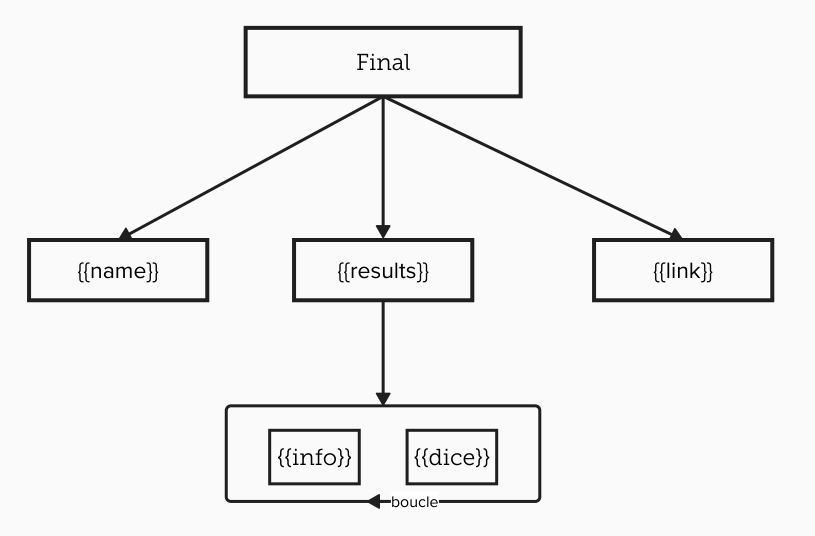
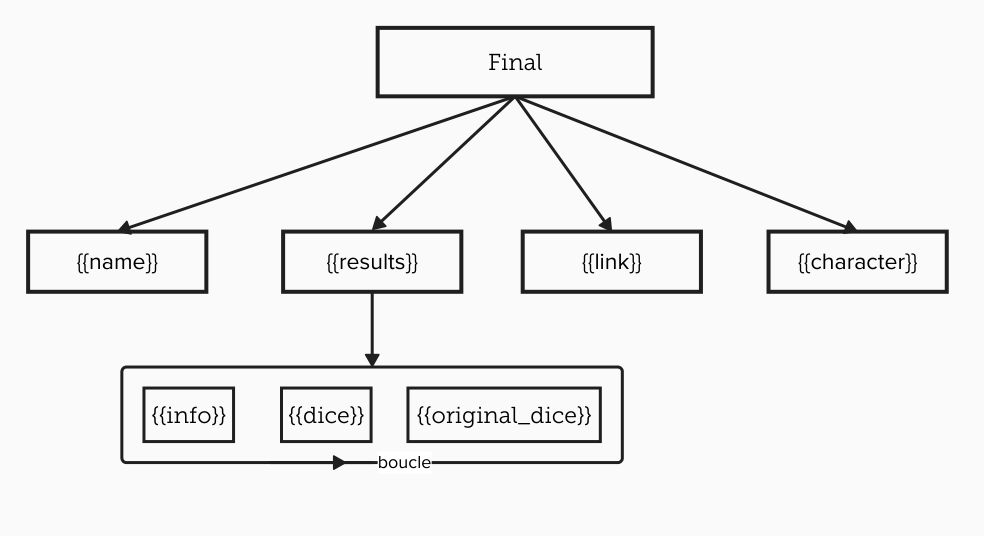
docs: update context_menu.md to enhance format options and clarify variable usage

diff --git a/config/context_menu.md b/config/context_menu.md
@@ -22,18 +22,22 @@ Le format du serveur a la priorité sur le format de l'utilisateur.
 ## Format
 
 :::usage
-**`/config créer_lien format [final] [results] [dé] [info] [nom] [jointure_résultats]`**
+**`/config créer_lien format [final] (results) (dé) (info) (nom) (dé_original) (personnage) (jointure_résultats)`**
 - `dé` : Le résultat du dé en lui-même, généralement `[RES](SIGN)(COMPARAISON)`, par exemple `[29]>=10`.
 - `info` : Le texte d'information qui est le texte de critiques (dont customisés), d'échec ou de réussite.
 - `nom` : Le nom de la statistique ou de la macro, si une est trouvée.
 - `jointure_résultats` : Le texte à utiliser pour joindre plusieurs résultats ensemble.
 - `results` : Une liste qui contient la combinaison de `dé` et `info`, joint par la variable `jointure_résultats`.
 - `final` : Le format final qui combine les autres variables pour créer le lien.
+- `dé_original` : Le dé original lancé, par exemple `1d100`.
+- `personnage` : Le nom du personnage ayant lancé le dé.
 :::
 
 :::warning
 Discord ne permet pas de rajouter des espaces finaux (ou au début) dans les options. Si vous souhaitez ajouter un espace à la fin ou au début d'une des variables, utilisez `\s` pour représenter un espace.
 :::
+
+Lorsque les variables sont laissées vides, les valeurs par défaut sont utilisées.
 
 ### Variables
 
@@ -43,22 +47,23 @@ Pour simplifier la création du format, vous pouvez utiliser les variables suiva
 - `{{name}}` : Nom de la statistique (exemple : `Force`) ou de la macro
 - `{{results}}` : Liste pouvant combiner plusieurs `{{dice}}` et `{{info}}`
 - `{{link}}` : Lien vers le message contenant le résultat du dé.
+- `{{original_dice}}` : Le dé original lancé (exemple : `1d100`)
+- `{{character}}` : Le nom du personnage ayant lancé le dé
 
-Il existe certaines personnalisations possibles pour `name` et `info` : 
-- `{{name:short}}` : Utilise les initiales de la macro/statistique, si le nom est composée de plusieurs mots (exemple : `CA` pour `Classe d'Armure`)
-- `{{name:long}}` : Utilise le nom complet de la macro/statistique (même chose que `{{name}}`)
+Il existe certaines personnalisations possibles pour `name`, `info` et `character` en ajoutant `:short` ou `:long` après le nom de la variable :
+- `:short` : permet d'obtenir les initiales de la variable uniquement si cette dernière fait au moins deux mots. Par exemple, pour `{{name}}`, si le nom est `Test de Force`, `{{name:short}}` donnera `TDF`.
+- `:long` donne le même résultat que l'absence de cette option, et donne la variable complète.
 
-De même, `info` peut être personnalisé avec :
-- `{{info:short}}` : Utilise une version abrégée du texte d'information (exemple : `ÉC` au lieu de `Échec critique`)
-- `{{info:long}}` : Utilise la version complète du texte d'information (même chose que `{{info}}`)
+Ces variables ne sont utilisables que dans les champs de format correspondants, et non dans le champ `final`.
 
 #### Résultats (`{{results}}`)
 La variable `{{results}}` est en réalité une liste qui est join par la variable `jointure_résultats`. Cette variable **ne peut** être composée que de :
 - `{{dice}}`
 - `{{info}}`
+- `{{original_dice}}`
 
 #### Final
-La variable `final` ne peut contenir que les variables `{{results}}`, `{{link}}` et `{{name}}`.
+La variable `final` ne peut contenir que les variables `{{results}}`, `{{link}}`, `{{name}}` et `{{character}}`.
 
 ![Schéma des variables](../assets/variable_diagram.png)
 
